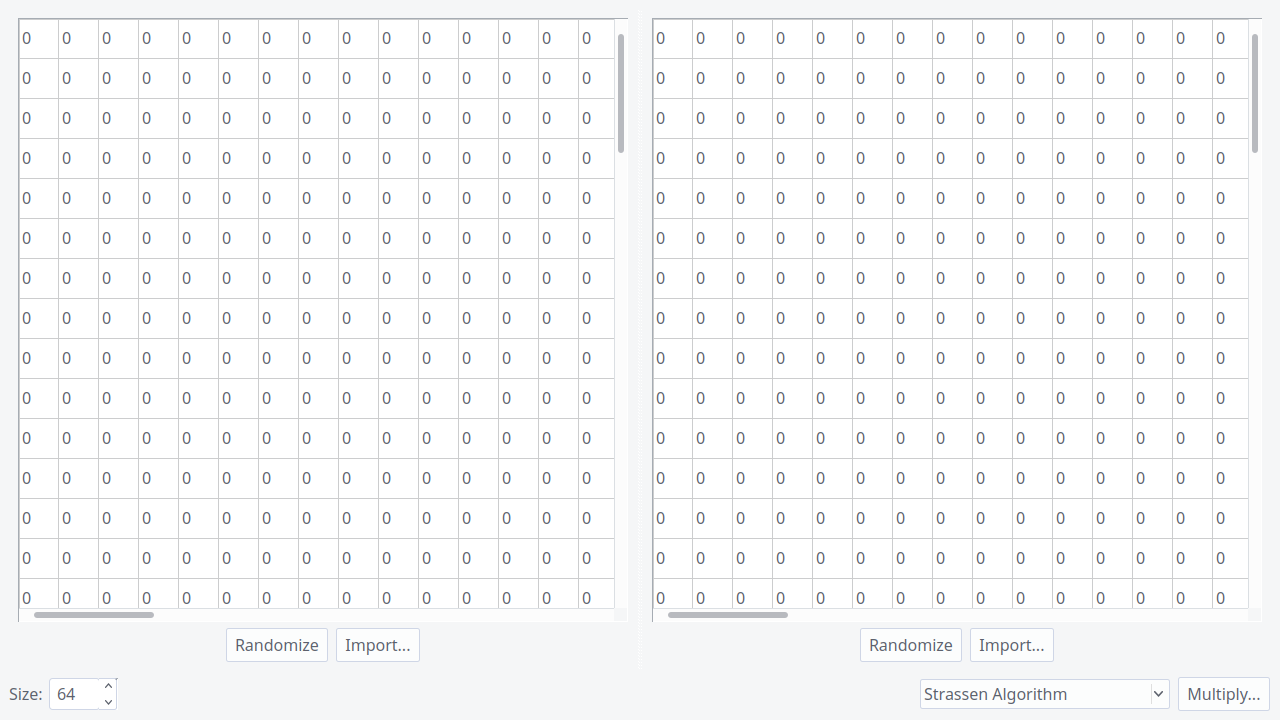
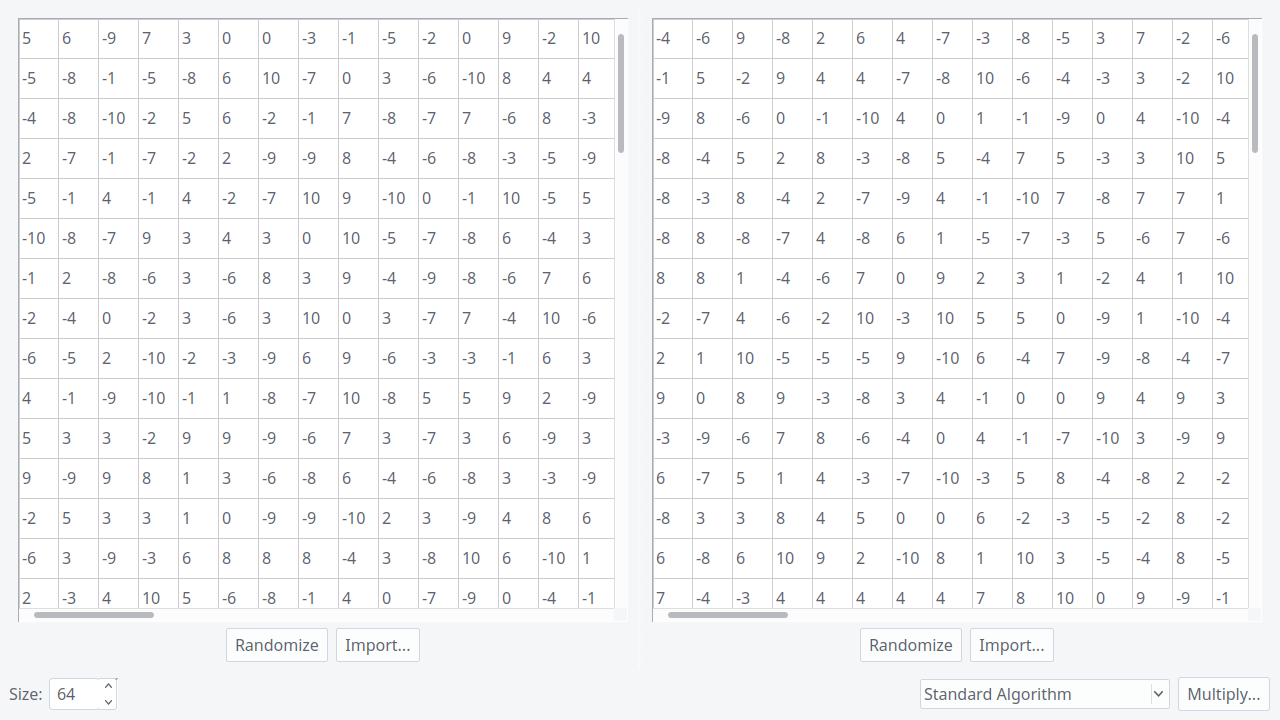
Update screenshots

diff --git a/README.md b/README.md
@@ -1,4 +1,5 @@
 # QMatrixProduct
 Simple matrix multiplication calculator with Qt 5.8 UI
-## Screenshot
+## Screenshots
 ![screenshot](screenshot.png)
+![screenshot2](screenshot2.png)
